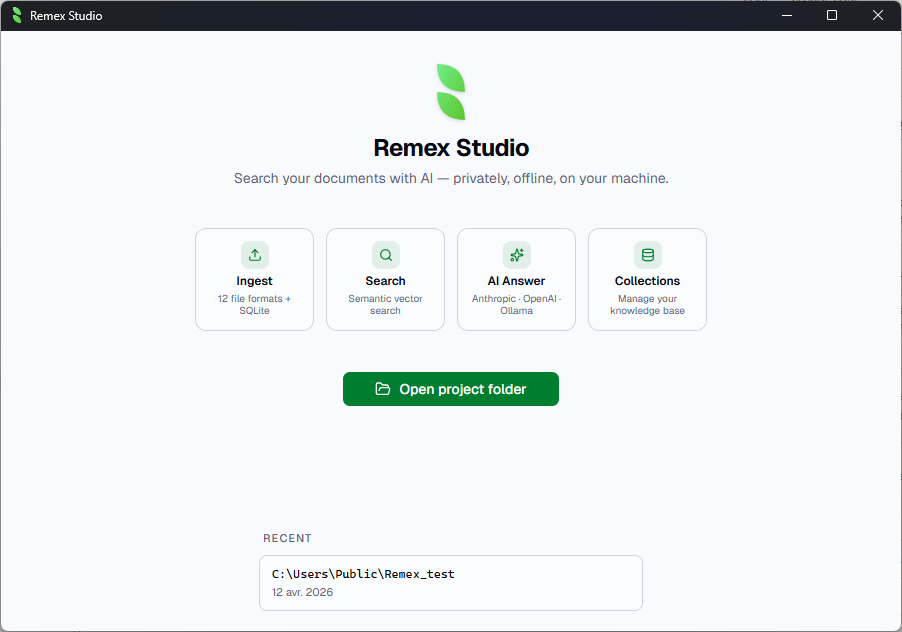
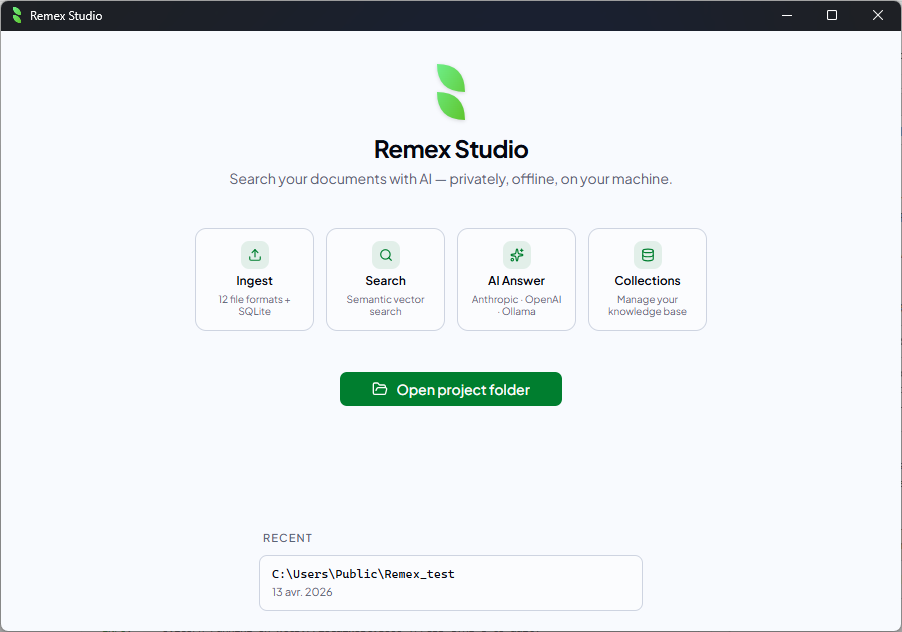
docs: update screenshots; show only homepage in README

diff --git a/README.md b/README.md
@@ -14,19 +14,7 @@
 
   <br/>
 
-  <img src="docs/screenshots/remex_homepage.png" alt="Remex Studio — Home" width="720" />
-
-  <br/><br/>
-
-  <img src="docs/screenshots/remex_ingest.png" alt="Remex Studio — Ingest" width="720" />
-
-  <br/><br/>
-
-  <img src="docs/screenshots/remex_collection.png" alt="Remex Studio — Collections" width="720" />
-
-  <br/><br/>
-
-  <img src="docs/screenshots/remex_settings.png" alt="Remex Studio — Settings" width="720" />
+  <img src="docs/screenshots/remex_homepage.png" alt="Remex Studio" width="720" />
 
 </div>
 
